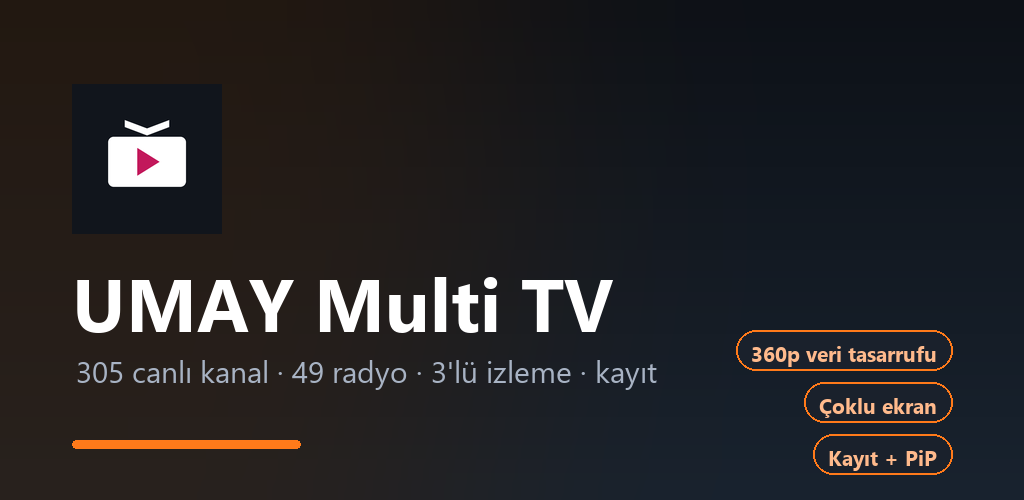
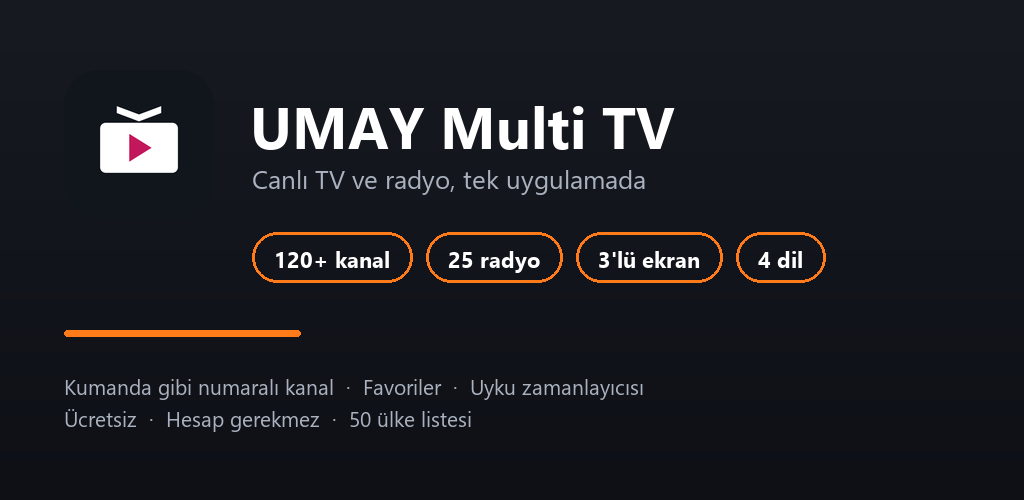
Play mağaza paketini 9.74'e göre güncelle
Mağaza metinleri gerçek sayı ve özelliklere çekildi (hesap yok, kayıt kamu kanallarında).
Yeni öne çıkan görsel ve reklamsız 3 ekran görüntüsü eklendi; karar/risk notu yazıldı.

🤖 Generated with Codebuff

diff --git a/docs/play/magaza-kaydi.md b/docs/play/magaza-kaydi.md
@@ -1,116 +1,129 @@
-# Play mağaza kaydı — kopyala/yapıştır metinler
+# Play mağaza kaydı — kopyala/yapıştır metinler (9.74)
 
 Play Console'da **Uygulama oluştur** ekranı açıldığında bu dosyadaki metinleri aynen kullan.
-Hepsi Play karakter sınırlarına uygundur (kısa açıklama 80, tam açıklama 4000).
+Karakter sınırları: ad 30, kısa açıklama 80, tam açıklama 4000.
 
 ## 1. Temel bilgiler
 
 | Alan | Değer |
 |---|---|
 | Uygulama adı (30) | `UMAY Multi TV: Canlı TV Radyo` |
-| Paket adı | `com.cengiz.canlitv` (AAB'den otomatik gelir, değiştirilemez) |
+| Paket adı | `com.cengiz.canlitv` (AAB'den gelir, değiştirilemez) |
 | Varsayılan dil | Türkçe |
-| Kategori | Eğlence (Video oynatıcılar ve editörler de olabilir) |
+| Kategori | Eğlence |
 | Etiketler | canlı tv, tv, radyo, haber, spor |
 | Geliştirici adı | YABANARISI |
 | E-posta | cengizkilic1980@gmail.com |
 | Gizlilik politikası | https://umay-multi-tv-gq3zer.freebuff.site/gizlilik-politikasi |
+| Kullanım koşulları | https://umay-multi-tv-gq3zer.freebuff.site/kullanim-kosullari |
+| Telif / kaldırma | https://umay-multi-tv-gq3zer.freebuff.site/telif-bildirimi |
 | Web sitesi | https://umay-multi-tv-gq3zer.freebuff.site |
 
 ## 2. Kısa açıklama (80 karakter)
 
 ```
-145 canlı TV kanalı ve 32 radyo: kanal numarası, favoriler, 3'lü izleme, kayıt.
+120+ canlı TV kanalı ve radyo: numaralı kanal, favoriler, 3'lü izleme, uyku modu.
 ```
 
 ## 3. Tam açıklama (kopyala)
 
 ```
-UMAY Multi TV, Türkiye'nin ve dünyanın canlı TV kanallarını ve popüler radyolarını tek
+UMAY Multi TV, Türkiye'nin ve dünyanın canlı TV kanallarını ve radyolarını tek
 uygulamada toplar. Kumanda alışkanlığına uygun numaralı kanal sistemi, favoriler ve
-çoklu izleme ile hızlı bir TV deneyimi sunar.
+çoklu izleme ile hızlı bir TV deneyimi sunar. Hesap açman gerekmez.
 
 🔢 NUMARALI KANAL (KUMANDA GİBİ)
-Üstteki No kutusuna kanal numarasını yaz, Git'e bas: kanal hemen açılır. 145 kanal
-Türkçe/yabancı ve tür olarak gruplanmıştır.
+Üstteki No kutusuna kanal numarasını yaz, Git'e bas: kanal hemen açılır.
+Kanallar Türkçe/yabancı ve türe göre gruplanmıştır.
 
-📺 145 CANLI KANAL
-TRT 1, TRT 2, TRT Spor, TV8, ATV, Star TV, Kanal D, Haber Global,
-NTV, A Haber, Halk TV, Kanal 7, TRT Müzik, TRT Çocuk ve çok daha fazlası.
-🌍 Ülke seç: 50 ülkenin kanalları listeye eklenir (Türkiye gömülü, internet gerekmez).
+📺 120'DEN FAZLA CANLI KANAL
+Ulusal, haber, spor, müzik, çocuk ve belgesel kanalları; ayrıca 50 ülkenin listesi.
+Ülke seç: seçtiğin ülkenin kanalları listeye eklenir (Türkiye listesi gömülü,
+internet gerekmez).
 
 📻 RADYO
-32 Türk radyosu: TRT, Kral, Süper FM, Metro FM, Power, Joy FM, Radyo 7, Karadeniz FM...
-Ülke değiştirince o ülkenin en çok dinlenen istasyonları listelenir.
+Türk radyoları tek listede. Ülke değiştirince o ülkenin istasyonları gelir.
 Ekran kilitliyken de çalar (arka plan sesi + bildirim).
 
 ▦ 3'LÜ / 4'LÜ İZLEME
-Aynı anda 3 veya 4 kanalı izle; her pencerenin sesini ayrı aç/kapat, pencereye dokununca
-o kanal solo olur. Setlerini kaydet, sonra tek dokunuşla geri yükle.
+Aynı anda 3 veya 4 kanalı izle; her pencerenin sesini ayrı aç/kapat. Setlerini
+kaydet, sonra tek dokunuşla geri yükle.
 
 ✏ LİSTE SENİN
-Uzun bas → listeye gizle, sürükle-bırakla sırala, numara değiştir, favorilere ekle.
+Uzun bas → listeye gizle, sırala, numara değiştir, favorilere ekle.
 Kalite seç (360p/480p/720p/1080p), veri tasarrufu ve günlük internet limiti.
+Kanalda seçtiğin kalite yoksa uygulama en düşük mevcut kaliteye geçer ve bunu söyler.
 
-⏺ KAYIT
-Yayını sesiyle birlikte telefona kaydet (Movies/TV-Kayitlari), uygulama içinden izle.
+⏺ KAYIT (KAMU KANALLARI)
+TRT, TBMM ve Diyanet gibi kamu yayınlarını sesiyle birlikte telefona kaydet
+(Movies/TV-Kayitlari). Özel kanallarda telif nedeniyle kayıt kapalıdır.
 
 😴 UYKU ZAMANLAYICISI
-15/30/45/60/90/120 dakika veya saat gir; süre dolunca uygulama kapanır.
+15/30/45/60/90/120 dakika veya saat gir; süre dolunca yayın kapanır.
 
 🌐 4 DİL
-Türkçe, English, Русский, العربية. Menüler seçtiğin dilde.
+Türkçe, English, Русский, العربية.
 
 👤 HESAP GEREKMEZ
 Ne e-posta ne Google hesabı istenir; bütün özellikler açıktır.
+İstersen hata günlüğünü (varsayılan kapalı) açıp bize gönderebilirsin.
 
 NEDEN ÜCRETSİZ?
-Uygulama reklamla ayakta kalır: liste altında küçük bir banner ve seyrek geçiş reklamı.
-Video izleyip 15 dakika reklamsız (video reklamı kalkar, banner kalır) kullanabilirsin. Yayının üstüne reklam binmez,
-oynatma reklamla kesilmez.
+Uygulama reklamla ayakta kalır: liste altında küçük bir banner ve seyrek geçiş
+reklamı. Yayının üstüne reklam binmez, oynatma reklamla kesilmez. İstersen ödüllü
+reklam izleyip 15 dakika geçiş reklamlarını kapatabilirsin.
 
-NOT: Kanallar yayıncıların halka açık akışlarıdır; yayınlar zaman zaman kaldırılabilir.
-Uygulamada kanal barındırılmaz. Geri bildirimin için: cengizkilic1980@gmail.com
+İÇERİK VE TELİF
+Kanallar yayıncıların halka açık akışlarıdır; uygulamada kanal barındırılmaz.
+Yayınlar zaman zaman kaldırılabilir veya adres değiştirebilir. Hak sahibi bir
+yayının kaldırılmasını isterse 48 saat içinde listeden çıkarılır:
+umay-multi-tv-gq3zer.freebuff.site/telif-bildirimi
+
+Geri bildirim: cengizkilic1980@gmail.com
 ```
 
-## 4. Görseller (hazır dosyalar)
+## 4. Görseller
 
-| Play alanı | Ölçü | Dosya |
-|---|---|---|
-| Uygulama ikonu | 512×512 | `docs/play/ikon-512.png` |
-| Öne çıkan görsel | 1024×500 | `docs/play/one-cikan-1024x500.png` |
-| Telefon ekran görüntüsü (en az 2) | 1080×1920 önerilir | `docs/play/v9-reklam.png`, `docs/play/v8-oynatici.png`, `docs/play/v7-ana.png`, `docs/play/v7-ana2.png` |
+| Play alanı | Ölçü | Dosya | Durum |
+|---|---|---|---|
+| Uygulama ikonu | 512×512 | `docs/play/ikon-512.png` | ✅ |
+| Öne çıkan görsel | 1024×500 | `docs/play/one-cikan-1024x500.png` | ✅ 9.74'te yenilendi |
+| Telefon ekran görüntüsü 1 | 1280×2342 | `docs/play/ekran-9.74-1-ana.png` | ✅ |
+| Telefon ekran görüntüsü 2 | 1280×2632 | `docs/play/ekran-9.74-2-oynatici.png` | ✅ |
+| Telefon ekran görüntüsü 3 | 1280×2342 | `docs/play/ekran-9.74-3-radyo.png` | ✅ |
 
-Ekran görüntüsü sayısı 2–8 arası; ilk ikisi en çok indirme getirir
-(1: ana ekran + kanal listesi, 2: oynatıcı).
+Not: ekran görüntülerinde reklam şeridi kırpıldı; uygulama arayüzü ve gerçek
+kanal/istasyon listesi görünüyor. Play en az 2, en çok 8 telefon görüntüsü kabul eder.
 
 ## 5. Mağaza formu cevapları
 
 - **Reklam içeriyor mu?** Evet (banner + geçiş + ödüllü).
 - **Uygulama içi satın alma?** Hayır.
-- **Hedef kitle:** 13+ (çocuklara özel değil). "Çocuklara yönelik" seçilmezse
-  Aile politikası ek formu gerekmez.
-- **İçerik derecelendirmesi anketi:** Şiddet/cinsellik/kumar yok; kullanıcı etkileşimi yok;
-  "kullanıcılar arası iletişim" yok. Sonuç genelde "3+ / Herkes".
-- **Veri güvenliği (Data safety):**
-  - Toplanan: **E-posta adresi** (isteğe bağlı hesap) — "Uygulama işlevi" + "Hesap yönetimi".
-  - Şifre: cihazda PBKDF2 ile özetlenir, sunucuya düz gitmez → "Toplanmıyor" olarak beyan edilir.
-  - Reklam kimliği: AdMob SDK kullanıldığı için "Reklam veya pazarlama" amaçlı **cihaz kimlikleri**
-    toplanır → evet.
-  - Veriler şifreli iletişimle (HTTPS) aktarılır, silme talebi e-posta ile karşılanır.
-- **Hükümet uygulaması / finans / sağlık:** Hayır.
-- **Haber uygulaması mı?** Hayır (canlı TV/radyo).
-- **TV cihazı desteği:** İsteğe bağlı; şimdilik telefon/tablet yeterli.
+- **Hedef kitle:** 18+ (çocuklara yönelik değil).
+- **Haber uygulaması mı?** Hayır (canlı TV/radyo oynatıcı).
+- **Hükümet / finans / sağlık:** Hayır.
+- **İçerik derecelendirmesi:** Şiddet, cinsellik, kumar, kullanıcılar arası iletişim,
+  kullanıcı içeriği paylaşımı yok. Uygulama içeriği canlı yayınlardan gelir; derecelendirme
+  anketinde "canlı yayın içeriği" notu düşülebilir.
+- **Veri güvenliği:** aşağıdaki tabloyu birebir gir.
 
-## 6. Üst sıralarda çıkmak için (ASO) — sırayla
+### Veri güvenliği tablosu (kodla aynı)
 
-1. **Başlıkta anahtar kelime:** "UMAY Multi TV: Canlı TV Radyo" (marka + 2 kelime).
-2. **Kısa açıklamada sayı:** "145 kanal", "32 radyo" tıklama oranını artırır.
-3. **İlk 2 ekran görüntüsü:** ana ekran ve oynatıcı; üzerine kısa yazı eklenirse
-   (Canva'da 1080×1920) dönüşüm yükselir.
-4. **Yorum isteme:** Ayarlar → ⭐ Bizi değerlendir satırı hazır; ilk hafta 10+ yorum
-   sıralamayı belirgin etkiler. Yorumlara 48 saat içinde cevap ver.
-5. **Güncelleme sıklığı:** 2–4 haftada bir sürüm (Play yeni sürümleri üste taşır).
-6. **ANAhtar kelimeler:** açıklamada doğal geçsin: canlı tv, tv izle, radyo dinle,
-   kanal listesi, haber, spor, çocuk kanalları, ücretsiz tv.
-7. **Kırılmayı önle:** kanal listesini güncel tut (⚙ → Tüm kanalları test et).
+| Veri türü | Toplanıyor | Paylaşılıyor | Amaç | Not |
+|---|---|---|---|---|
+| Reklam kimliği (AD_ID) | Evet | Evet (Google AdMob) | Reklam/ölçüm | Uygulama kendi sunucusuna göndermez |
+| Cihaz kimliği | Evet (isteğe bağlı) | Hayır | Uygulama işlevi | Yalnız "günlük gönderimi" açılırsa; rastgele Android ID |
+| Çökme günlükleri | Evet (isteğe bağlı) | Hayır | Hata ayıklama | Varsayılan KAPALI, günde en fazla 1 |
+| Konum, ad, e-posta, ödeme, sağlık, mesaj, dosya | Hayır | — | — | Hesap ve ödeme yok |
+
+İşaretle: **"Veriler aktarım sırasında şifrelenir" → Evet**;
+**"Kullanıcı verilerinin silinmesini talep edebilir" → Evet** (e-posta ile).
+
+## 6. Yükleme sırası
+
+1. Play Console → Uygulama oluştur (ad, dil, ücretsiz).
+2. Mağaza kaydı: metinler + ikon + öne çıkan görsel + 3 ekran görüntüsü.
+3. Uygulama içeriği: reklamlar, hedef kitle, içerik derecelendirme, veri güvenliği.
+4. Kapalı test → `releases/v9.74/UMAY-MULTI-TV-9.74.aab` (versionCode 83).
+5. En az 12 tester, 14 gün kesintisiz → üretim erişimi başvurusu.
+6. Onay sonrası üretim → aynı AAB → inceleme.

diff --git a/docs/play/PLAY-KARAR-2026-11-25.md b/docs/play/PLAY-KARAR-2026-11-25.md
@@ -1,0 +1,130 @@
+# Play'e yüklenebilir miyiz? — karar notu (25 Kasım 2026, 9.74)
+
+Bu not üç soruya cevap verir: **teknik olarak hazır mıyız, Play kabul eder mi, reklam parası olur mu.**
+Tahminler açıkça "tahmin" olarak işaretlendi; politika maddeleri Google'ın kendi sayfalarından.
+
+---
+
+## 1. Kısa cevap
+
+| Soru | Cevap |
+|---|---|
+| Teknik olarak yüklenebilir mi? | **Evet.** AAB, 512 ikon, 1024×500 görsel, 3 ekran görüntüsü, gizlilik/koşullar/telif sayfaları, Data safety tablosu hazır. |
+| Ben yükleyebilir miyim? | **Hayır.** Play Console'a senin Google hesabınla giriş + 2 adımlı doğrulama gerekiyor. Yükleme adımlarını senin yerine tıklayamam; ama her ekranı sırayla tarif edip AAB'yi hazır tutuyorum. |
+| Şimdi yükleyip yayına çıkar mı? | **Hayır.** Yeni kişisel hesaplarda **12 tester / 14 gün kesintisiz kapalı test** + üretim erişimi başvurusu zorunlu. Takvim süresi kısaltılamaz. |
+| Reklam geliri olur mu? | **Olabilir, garanti değil.** Yayın + AdMob'a mağaza bağlantısı sonrası. Şu an AdMob "sınırlı reklam sunumu" veriyor (NO_FILL gördük). |
+| Hesabım kapanır mı? | **Risk var, en büyük sebep telif.** Aşağıda ayrıntılı. |
+
+---
+
+## 2. Teknik hazırlık (tamam)
+
+- `releases/v9.74/UMAY-MULTI-TV-9.74.aab` — versionCode 83, targetSdk 36, imzalı.
+- İzinler: INTERNET, ACCESS_NETWORK_STATE, WAKE_LOCK, FOREGROUND_SERVICE(+MEDIA_PLAYBACK),
+  POST_NOTIFICATIONS, AD_ID. Hassas izin yok.
+- Reklam: banner + geçiş + ödüllü, UMP rıza akışı, `app-ads.txt` yayında.
+- Veri: hesap yok; hata günlüğü **varsayılan kapalı**, açılırsa günde 1 kez rastgele cihaz kimliğiyle.
+- Gizlilik / kullanım koşulları / telif-kaldırma sayfaları yayında.
+- Mağaza metinleri: `docs/play/magaza-kaydi.md` (120+ kanal, 25 radyo, gerçek özellikler).
+- Görseller: `docs/play/ikon-512.png`, `one-cikan-1024x500.png`, `ekran-9.74-1/2/3`.
+
+**Ürün tarafındaki tek açık iş:** ATV. Kullanıcı "ATV'de sorun var" dedi; 9.74'te 720p açılıyor
+ama mağazaya çıkmadan önce bu kanalın güvenilir olması gerekir. Ayrıca ülke listelerinin ilk
+açılışta boş gelmemesi (internet yoksa) kontrol edilmeli.
+
+---
+
+## 3. Play kuralları — bizim için kritik olanlar
+
+1. **Kapalı test zorunluluğu.** 13 Kasım 2023'ten sonra açılan **kişisel** hesaplar için:
+   en az **12 tester**, **14 gün kesintisiz** opt-in, sonra üretim erişimi başvurusu.
+   (support.google.com/googleplay/android-developer/answer/14151465)
+2. **Fikri mülkiyet / telif.** "Başkalarının telif hakkını ihlal eden uygulamalara ve geliştirici
+   hesaplarına izin vermiyoruz; içeriği kullanma hakkını kanıtlamanız istenebilir."
+   (support.google.com/googleplay/android-developer/answer/9888072)
+3. **Yaptırım kademeleri.** Ret → hesap itibarını etkilemez. Kaldırma → hemen askıya alma
+   değil ama **birden çok kaldırma askıya almaya yol açabilir**. Askıya alma/fesih daha ağır;
+   itiraz süresi 28 Ocak 2026'dan sonra **180 gün**.
+   (answer/18265346, answer/16659089)
+4. **AdMob.** Politika ihlalinde **reklam sunumu veya AdMob hesabı kapatılabilir**; kapatılan
+   hesap AdSense/AdMob programlarına bir daha alınmaz. (support.google.com/admob/answer/6128543)
+
+### Bunun bizim uygulamaya anlamı
+
+- Uygulama, **yayıncıların halka açık HLS adreslerini** yeniden yayınlıyor. Halka açık olması
+  "yeniden yayınlama izni" demek değil. Türkiye'de yayıncıların çoğu bu tür uygulamalara
+  DMCA/telif bildirimi gönderiyor.
+- **Gerçekçi senaryo:** uygulama yayına girer, bir süre çalışır, bir yayıncı şikâyet ederse
+  uygulama **kaldırılır** (hesap hemen kapanmaz). Aynı hesapla üst üste kaldırma olursa
+  **askıya alma** riski büyür.
+- **Kötü senaryo:** hak sahibi doğrudan Google'a hak ihlali bildirirse veya uygulama
+  "yetkisiz yayın" olarak işaretlenirse **hesap feshi**. Feshedilen hesap için Google
+  yeni hesap açmayı kabul etmiyor (kimlik eşleştirmesi). Bu yüzden **ilk uygulamayı
+  "deneme" olarak riske atmak** doğru değil.
+- **Hafifletici adımlar (kodda/sitede zaten var):** uygulamada kanal barındırılmıyor,
+  telif-kaldırma sayfası + e-posta + 48 saat taahhüdü var, özel kanallarda kayıt kapalı.
+  Bunlar riski azaltır, **sıfırlamaz**.
+
+---
+
+## 4. "Diğer uygulamalarla devam edebilir miyim?"
+
+Veriye dayalı cevap:
+
+- **Ret (rejection):** hesabın itibarını etkilemez (Google'ın kendi metni). Yeni uygulama
+  oluşturmaya devam edebilirsin.
+- **Kaldırma (removal):** o uygulama kalkar, hesap ayakta kalır; ancak **birden çok kaldırma
+  askıya almaya** yol açabilir.
+- **Askıya alma (suspension):** hesap özellikleri kısıtlanır; itiraz gerekir.
+- **Fesih (termination):** hesap kapanır, **aynı kimlikle yeni hesap açılamaz** (Google
+  politikası ve topluluk deneyimi bu yönde). Bu yüzden fesih "sadece bu uygulamayı kaybetmek"
+  değil, **Play'e bir daha yükleyememek** anlamına gelir.
+
+**Tahminim (kesin değil):** İlk uygulama olarak telifli canlı TV uygulaması yüksek riskli.
+Ret veya kaldırma olasılığı, "temiz" bir uygulamaya göre belirgin şekilde yüksek. Fesih,
+tek seferlik bir kaldırmada değil, tekrarlanan ihlalde gerçekleşiyor.
+
+---
+
+## 5. Reklam geliri gerçekçi mi?
+
+- Gelir, **yayına çıktıktan sonra** AdMob → Uygulama → "Mağaza ekle" ile Play linki girilince tam açılır.
+  O ana kadar "sınırlı reklam sunumu" devam eder; cihazda NO_FILL gördük.
+- Türkiye trafiğinde banner eCPM'i **tahminen** 0,1–0,5 USD / 1000 gösterim bandında,
+  geçiş reklamı daha yüksek. Yani **1000 kişi/gün** bile ciddi gelir demek değil;
+  ilk aylarda birkaç dolar beklemek gerçekçi.
+- AdMob ödeme eşiği 100 TL. İlk ödeme için bu eşiğin dolması gerekir.
+- **"Bedelini alıyor muyuz" sorusunun cevabı:** gösterim başına ödeme AdMob tarafından
+  sayılır; uygulama ayrıca rapor göndermek zorunda değil. Ama **gelir = geçerli gösterim**;
+  kullanıcı yoksa gelir de yok.
+
+---
+
+## 6. Önerim (sırayla)
+
+1. **Şimdi kapalı testi başlat** (14 gün takvim süresi; en erken bugün başlarsa aralık başında üretim).
+   Bu aşamada uygulama herkese açık değil; risk düşük, geri bildirim değerli.
+2. **ATV'yi düzelt** (mağazaya çıkmadan). Test kullanıcıları ilk ATV'yi açacak.
+3. **Testerleri 15–20 kişi yap** (12'nin altına düşerse sayaç sıfırlanır).
+4. Üretim başvurusunda uygulamayı **"canlı TV/radyo oynatıcı"** olarak anlat; telif-kaldırma
+   sayfasını ve iletişim adresini göster.
+5. **İlk sürümde riski düşür:** yayıncı şikâyeti gelirse 48 saatte kaldır; özel kanallarda
+   kayıt zaten kapalı; mağaza metninde kanal sayısını abartma.
+6. **Alternatif (daha güvenli ürün):** yalnızca **kendi yayınladığı** resmi akışları (TRT'nin
+   resmi embed/YouTube canlıları gibi) listeleyen bir sürüm; ticari kanalları çıkar.
+   Gelir düşer, hesap riski belirgin azalır.
+
+**Karar:** Teknik olarak yüklenebilir; **kapalı testi bugün başlatmak mantıklı**. Üretime
+çıkmadan ATV düzeltilmeli ve telif riski kabul edilmeli. Ben yükleyemem; Play Console
+adımlarını senin tıklaman gerekiyor, ben her adımı ekran ekran tarif ederim.
+
+---
+
+## 7. Kaynaklar
+
+- Kapalı test: https://support.google.com/googleplay/android-developer/answer/14151465
+- Fikri mülkiyet: https://support.google.com/googleplay/android-developer/answer/9888072
+- Yaptırım kademeleri: https://support.google.com/googleplay/android-developer/answer/18265346
+- Fesih itiraz süresi: https://support.google.com/googleplay/android-developer/answer/16659089
+- AdMob politika: https://support.google.com/admob/answer/6128543
+- AdMob uygulama/hesap kapatma: https://support.google.com/admob/answer/6195033

diff --git a/docs/play/PLAY-YAYIN-HAZIRLIK.md b/docs/play/PLAY-YAYIN-HAZIRLIK.md
@@ -1,6 +1,6 @@
 # Play Store yayını — resmî/evrak hazırlık kontrol listesi
 
-**Sürüm:** 9.44 · **Paket:** `com.cengiz.canlitv` · **Tarih:** 24 Kasım 2026
+**Sürüm:** 9.74 (83) · **Paket:** `com.cengiz.canlitv` · **Tarih:** 25 Kasım 2026
 **Amaç:** Play incelemesinde takılmamak için gereken belge, beyan ve metinlerin tek listesi.
 
 Durum: ✅ hazır · 🟡 kısmen · 👤 senin yapman gereken (Play Console / hesap)
@@ -11,11 +11,11 @@ Durum: ✅ hazır · 🟡 kısmen · 👤 senin yapman gereken (Play Console / h
 
 | Konu | Durum | Not |
 |---|---|---|
-| AAB (Android App Bundle) | ✅ | `make-aab.sh` → `CanliTV.aab` |
+| AAB (Android App Bundle) | ✅ | `releases/v9.74/UMAY-MULTI-TV-9.74.aab` (6,78 MB) |
 | targetSdk | ✅ | 36 (Play 2026 şartını karşılıyor) |
 | minSdk | ✅ | 26 (Android 8+) |
 | İmza | ✅ | Yükleme anahtarı `CN=UMAY Multi TV`; Play App Signing açılmalı |
-| `versionCode` artışı | ✅ | 53 (9.44) |
+| `versionCode` artışı | ✅ | 83 (9.74) |
 | 64-bit | ✅ | mimari bağımsız Java/Kotlin |
 | İzin gerekçeleri | ✅ | POST_NOTIFICATIONS, INTERNET, ACCESS_NETWORK_STATE; hassas izin yok |
 | Cleartext | ✅ | Varsayılan HTTPS, yalnız beyaz listedeki eski HTTP radyo alan adları |
@@ -30,8 +30,8 @@ Durum: ✅ hazır · 🟡 kısmen · 👤 senin yapman gereken (Play Console / h
 | Kısa açıklama (80) | `docs/play/magaza-kaydi.md` | ✅ |
 | Tam açıklama | Aynı dosya (145 kanal · 22+ radyo · 3'lü izleme) | ✅ |
 | Uygulama ikonu 512×512 | `docs/play/ikon-512.png` | ✅ |
-| Öne çıkan görsel 1024×500 | `docs/play/one-cikan-1024x500.png` | 🟡 yenilenmeli (reklam/3. taraf kare yok) |
-| Telefon ekran görüntüleri | `docs/play/v9-reklam.png`, `v91-radyo.png` | 🟡 reklamsız yeni set çekilmeli |
+| Öne çıkan görsel 1024×500 | `docs/play/one-cikan-1024x500.png` | ✅ 9.74 (120+ kanal · 25 radyo, reklamsız) |
+| Telefon ekran görüntüleri | `docs/play/ekran-9.74-1-ana.png`, `-2-oynatici.png`, `-3-radyo.png` | ✅ 9.74 (reklam şeridi kırpıldı) |
 | Kategori | Eğlence (Video oynatıcı/Medya) | 👤 |
 | İletişim e-postası | cengizkilic1980@gmail.com | ✅ |
 | Web sitesi | https://umay-multi-tv-gq3zer.freebuff.site | ✅ |
@@ -88,7 +88,7 @@ talep edebilir" → Evet** (e-posta ile; hesap olmadığı için cihaz verisi ku
 1. Play Console → yeni uygulama → **Uygulama imzalama** (Play App Signing) aç.
 2. Mağaza kaydını B bölümündeki metinlerle doldur, görselleri yükle (reklamsız yeni set).
 3. C bölümündeki beyanları ve Data safety tablosunu birebir gir.
-4. **Kapalı test** (en az 12 test kullanıcısı, 14 gün) → `docs/play/kapali-test.md`.
+4. **Kapalı test** (en az 12 tester, 14 gün kesintisiz) → `docs/play/kapali-test.md`.
 5. Üretime geçiş: AAB yükle → inceleme → yayın.
 6. Yayından sonra: güncellemeler yeni `versionCode` ile; aynı imza.
 
